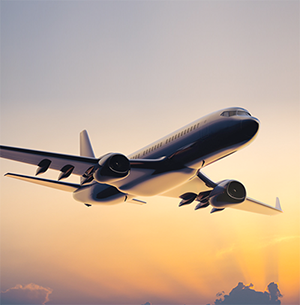
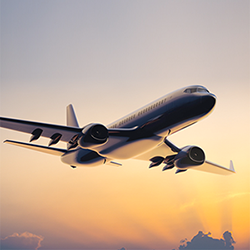
wip: main content for mobile

diff --git a/main.css b/main.css
@@ -14,6 +14,7 @@ html {
 utilities
 -----------------------------------------------------------------------------------*/
 
+
 .clear {
   clear: both;
 }
@@ -39,15 +40,62 @@ general styling
 body {
   padding: 0px;
   margin: 0px;
-  font-family: "arial";
+  font-family: 'Lato', sans-serif;
+  color: white;
+  letter-spacing: 2px;
 }
 
 a {
+  color: red;
+  font-weight: bold;
+  text-transform: uppercase;
   text-decoration: none;
 }
 
 a:hover {
   text-decoration: underline;
+}
+
+h1 {
+  font-size: 20px;
+}
+
+h3 {
+  font-size: 25px;
+  font-weight: lighter;
+  margin: 0px;
+}
+
+h4 {
+  margin: 0px;
+  padding: 20px;
+  text-align: center;
+  font-size: 20px;
+  font-weight: lighter;
+  text-transform: uppercase;
+}
+
+p {
+  font-size: 15px;
+  font-weight: lighter;
+  letter-spacing: 1px;
+  margin: 0px;
+  padding: 10px 0px 15px;
+}
+
+/*-----------------------------------------------------------------------------------
+button styling
+-----------------------------------------------------------------------------------*/
+
+.button {
+  border: 1px solid white;
+  padding: 10px;
+  color: white;
+  background: transparent;
+}
+
+.button p {
+  margin: 0px;
 }
 
 /*-----------------------------------------------------------------------------------
@@ -83,7 +131,7 @@ mobile menu
 }
 
 
-.menu{
+.menu {
   font-size: 18px;
   background-color: #ccc;
   margin: 0;
@@ -96,7 +144,7 @@ mobile menu
   border-bottom: 1px solid #ddd;
 }
 
-.menu__item a{
+.menu__item a {
   color: white;
   display: block;
   padding: 8px 0;
@@ -157,5 +205,73 @@ mobile menu
 .body-container {
   background-image: url("img/background.png");
   background-repeat: no-repeat;
+  background-size: 200%;
+  padding: 60px;
+}
+
+.intro h1 {
+  width: 180px;
+}
+
+.intro p {
+  width: 70%;
+}
+
+.content {
+  margin-top: 60px;
+  width: 250px;
+}
+
+.content--header {
+  font-size: 13px;
+  text-transform: uppercase;
+  letter-spacing: 1px;
+  font-weight: normal;
+  padding: 5px;
+  margin: 0px;
+  background-color: #054060;
+}
+
+.transition {
+  position: relative;
+  top: -3px;
+  background: -webkit-linear-gradient(left, #f7c342 , #e15656); /* For Safari 5.1 to 6.0 */
+  background: -o-linear-gradient(right, #f7c342, #e15656); /* For Opera 11.1 to 12.0 */
+  background: -moz-linear-gradient(right, #f7c342, #e15656); /* For Firefox 3.6 to 15 */
+  background: linear-gradient(to right, #f7c342, #e15656); /* Standard syntax (must be last) */
+}
+
+.content--image-box {
+  position: relative;
+}
+
+.overlay {
+  position: absolute;
+  left: 0;
+  padding: 15px;
+  background-color: #636363;
+  opacity: .7;
+}
+
+.content--airplane--overlay {
+  visibility: visible;
+  height: 250px;
+  top: -1px;
+}
+
+.content--blue-box {
+  position: relative;
+  top: -4px;
+  background-color: #054060;
+  text-align: center;
+}
+
+.content--hospital {
+  top: -5px;
+}
+
+.content--hospital-overlay {
+  top: 0px;
+  height: 187px;
 }
 

diff --git a/index.html b/index.html
@@ -4,6 +4,7 @@
     <meta name="viewport" content="initial-scale=1">
     
     <link rel="stylesheet" type="text/css" href="main.css">
+    <link href='http://fonts.googleapis.com/css?family=Lato:400,300,700,100' rel='stylesheet' type='text/css'>
   </head>
   
   <body>
@@ -38,12 +39,41 @@
     <div class="body-container">
       <div class="intro">
         <h1>INVENT. SENSE. CONTROL.</h1>
-        <h3>Lorem ipsum dolor sit amet, consectetur adipisicing elit, sed do eiusmod tempor incididunt ut labore et dolore magna aliqua.</h3>
+        <p>Lorem ipsum dolor sit amet, consectetur adipisicing elit, sed do eiusmod tempor incididunt ut labore et dolore magna aliqua.</p>
+        <button class="button intro--learn-more">LEARN MORE</button>
+      </div>
+      
+      <div class="content">
+        <h2 class="content--header">Spotlight</h2>
+        <div class="content--image-box">
+          <img src="img/airplane.png">
+          
+          <div class="content--airplane--overlay overlay">
+            <h3>Design without compromise</h3>
+            <p>Lorem ipsum dolor sit amet, consectetur adipisicing elit, sed do eiusmod tempor incididunt ut labore et dolore magna aliqua.</p>
+            <p><a href="#">read more</a></p>
+          </div>
+        </div>
+          
+        <div class="content--blue-box">
+          <h4>Wireless car tracking</h4>
+          <p><a href="#">read more</a></p>
+        </div>
+
+        <div class="content--image-box content--hospital">
+          <img src="img/10152010AP9270814.png">
+          <div class="content--hospital-overlay overlay">
+            <h3>Hospital safety systems</h3>
+            <p><a href="#">read more</a></p>
+          </div>
+        </div>
+        
+        <h2 class="content--header transition">Inside the lab</h2>
       </div>
     </div>
     
     <footer>
-      </div>
+      
     </footer>
     
     <script style="text/javascript" src="../global.js"></script>
